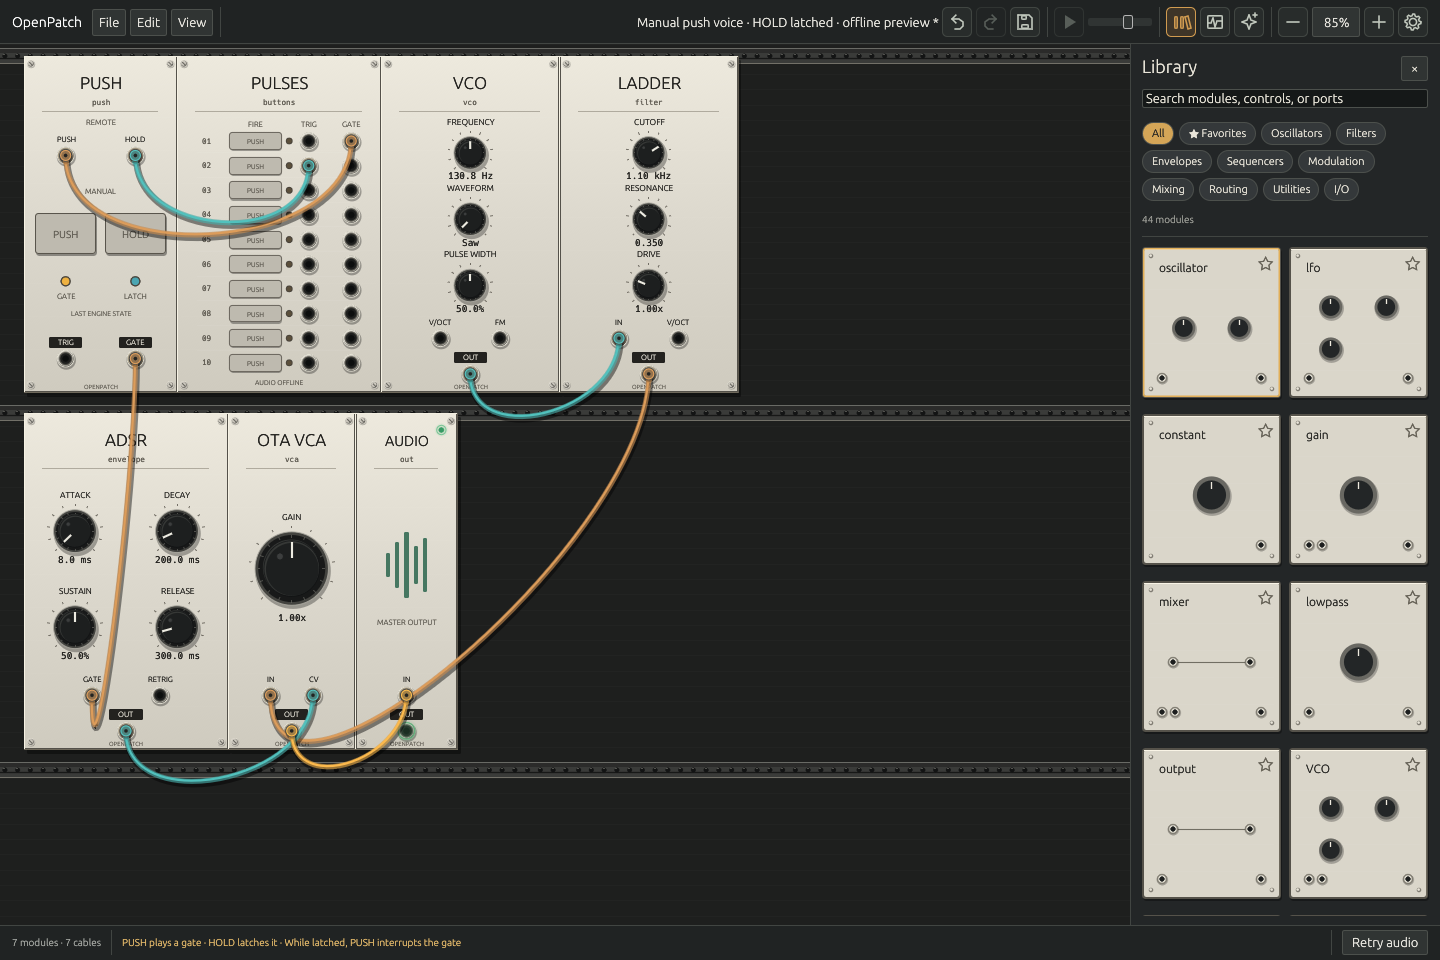
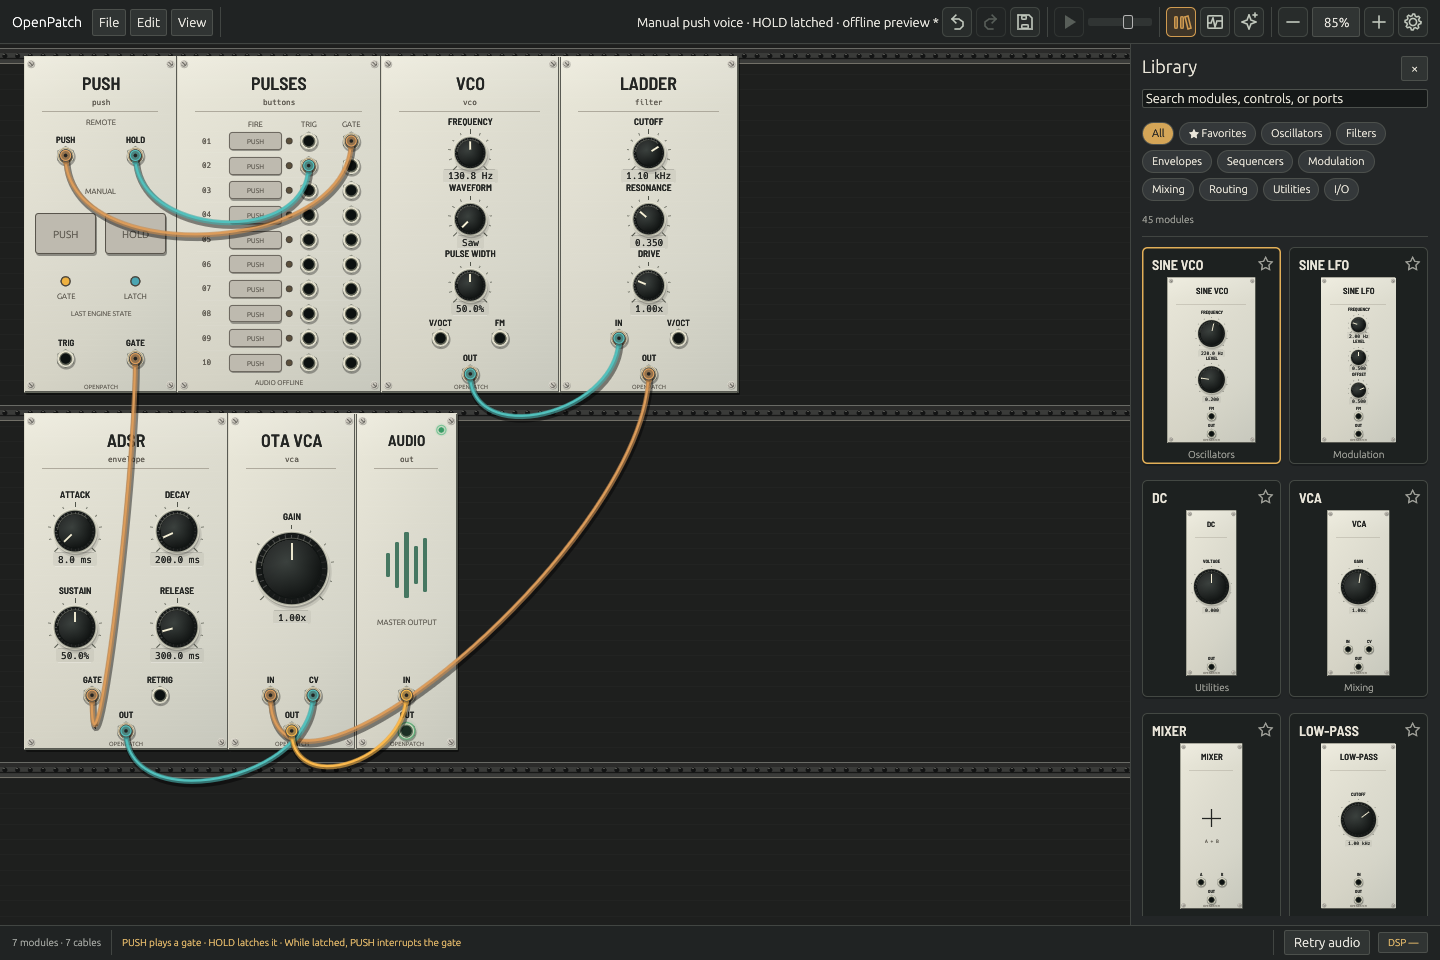
Refresh native screenshots for the shared Studio Rack design [skip ci]

diff --git a/docs/PANEL_DESIGN.md b/docs/PANEL_DESIGN.md
@@ -8,6 +8,10 @@ their real proportions rather than being rearranged into a generic miniature.
 The card's title, favorite star, category, and availability overlay belong to
 the browser and sit outside the module artwork.
 
+![The module library uses actual default module panels](images/openpatch-library.png)
+
+*Native Linux CI capture; macOS is the primary design target.*
+
 The Studio Rack skin uses brushed ivory metal, compact printed headings,
 recessed value plaques, shaded dark knobs, and machined jack collars. Control
 centers, parameter ranges, cable endpoints, and hit areas retain their existing
